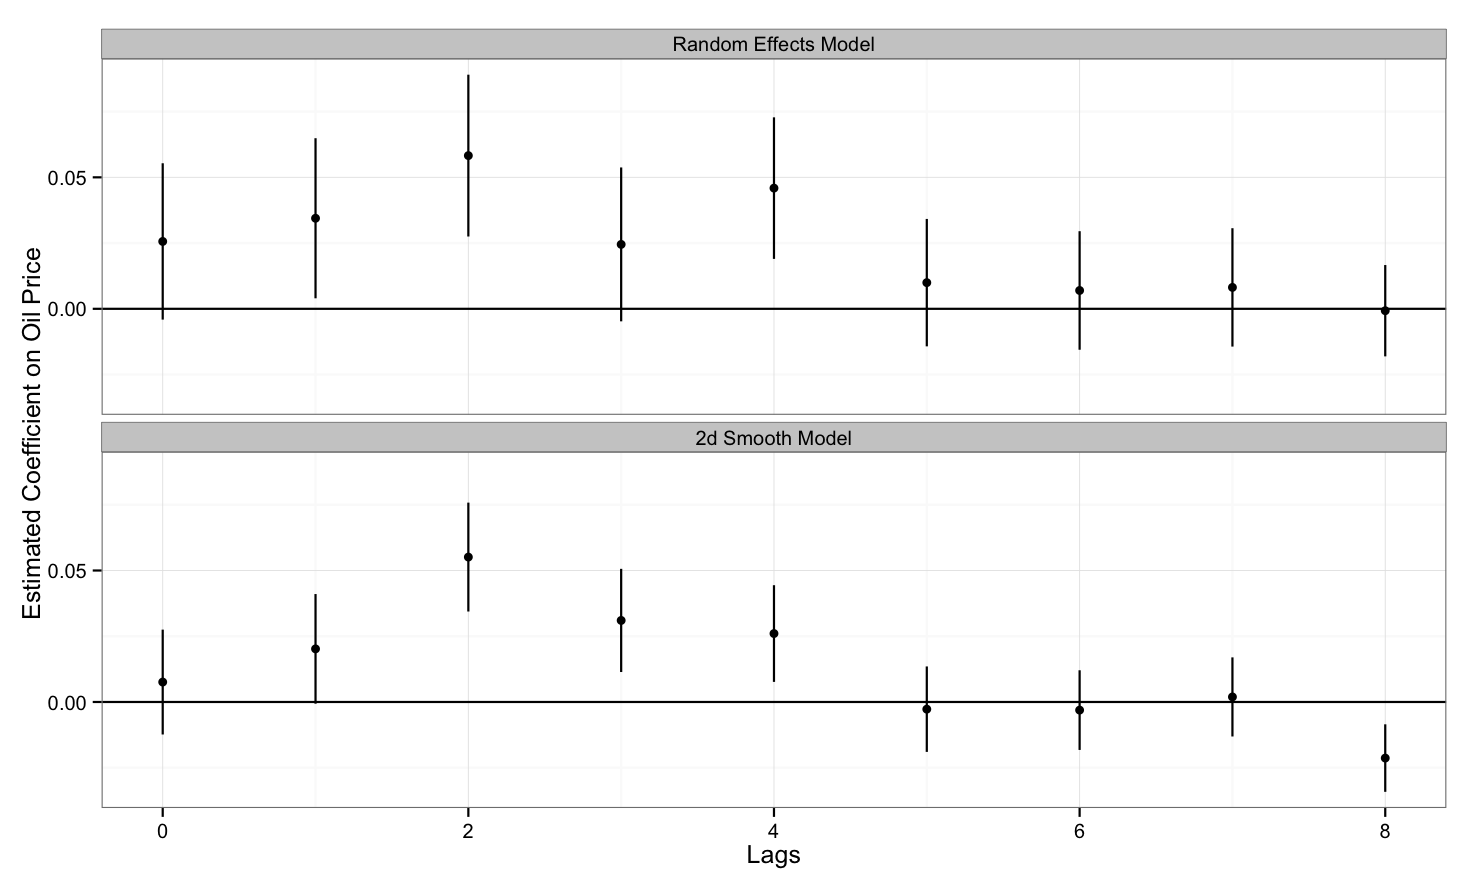
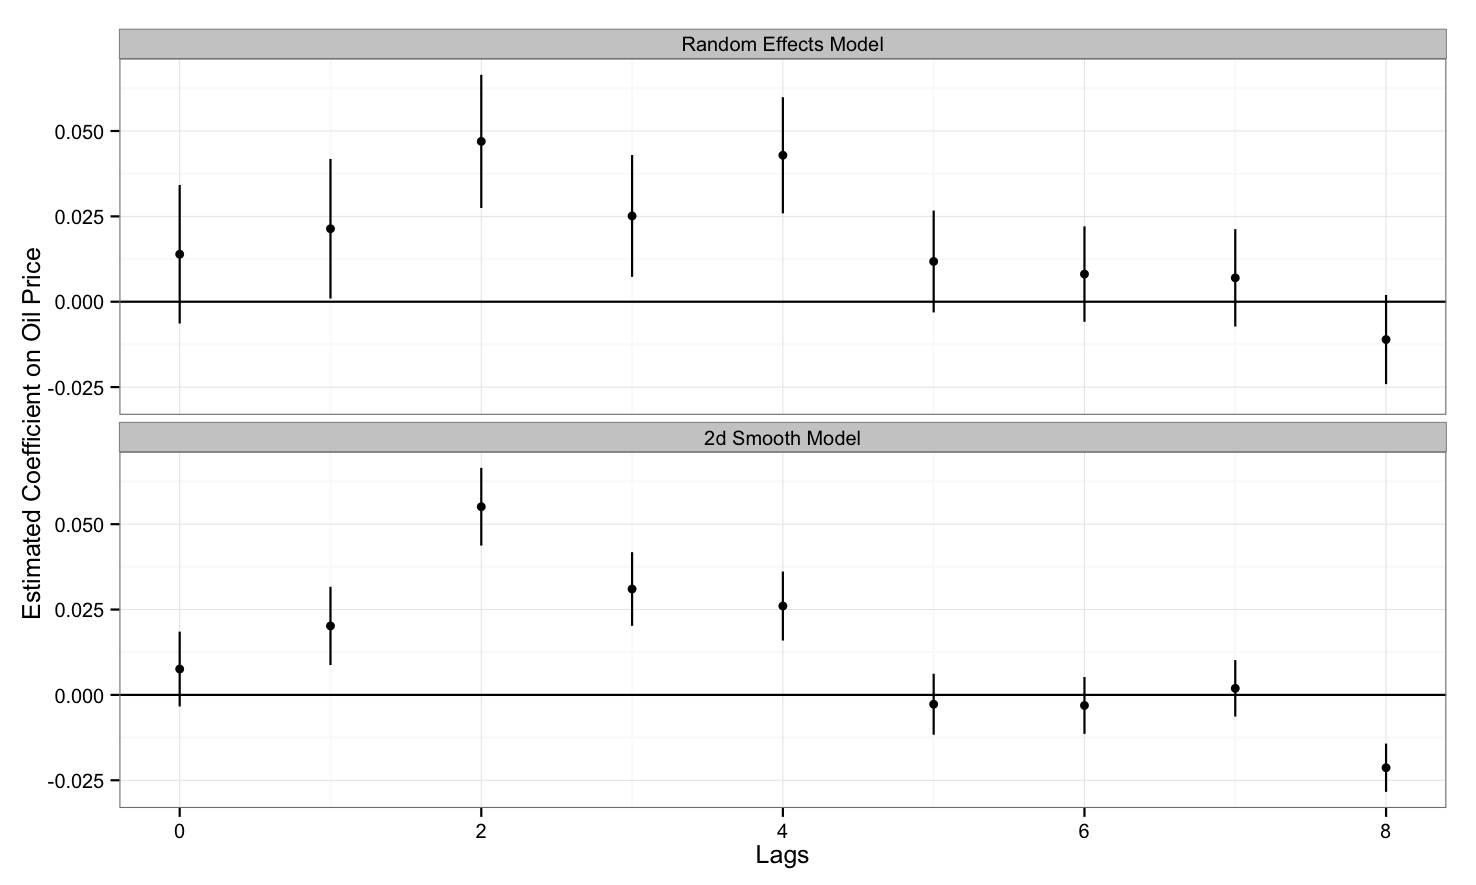
updated analysis

diff --git a/oil_prices_rr.tex b/oil_prices_rr.tex
@@ -191,7 +191,7 @@ One objection to this model may be that a fixed effect controlling for the gener
 
 Another potential issue may be that the smoothed function of production time may not be sufficient in controlling for the variation in production profiles shapes across fields.  In particular, production profiles differ substantially by the size of the field. A solution is to allow the shape to vary by production.  Thus the smoothed can be written as a function of both production time and in place oil: $f(production\_time_{i,t}, in\_place\_oil_{i,t})$.
 
-Estimating a smoothed function of two variables requires a somewhat more involved method.  In particular I use Thin-plate regression spline \citep{wood_thin_2003}. Consider equation \ref{thin_plate_1}. 
+Estimating a smoothed function of two variables requires a somewhat more involved method.  In particular, a Thin-plate regression spline \citep{wood_thin_2003} is used. Consider equation \ref{thin_plate_1}. 
 
 	\begin{equation}
 	y_i = g(x_1, x_2)
@@ -214,7 +214,7 @@ $J_{22}$ represents the penalty function for the smoothness of the function whic
 
 In short, a function of $x_1$ and $x_2$ is found that is minimizing errors in the sense of minimizing Euclidean distance subject to a penalty function of “wiggiliness”.  The actual implementation is somewhat more involved in order to increase the computational efficiency of the estimation.  For further details I again refer to \citet{wood_thin_2003}. 
 
-In the formulation with a two-dimensional smoothed function, it is not possible to estimate a random effects component for computational reasons. 
+Unfortunately, In the formulation with a two-dimensional smoothed function, it is not possible to estimate a random effects component for computational reasons. 
 
 \section{The Effect of Oil Price on Field Production}
 
@@ -228,55 +228,49 @@ Alternatively, a change in price of oil can be seen as a lifting of a production
 \hline
                                              & w/out Rand. Effects & w Rand. Effects & 2-d Smooth \\
 \hline
-(Intercept)                                  & $-28746.236^{***}$ & $-70463.727^{***}$ & $-58741.031^{***}$ \\
-                                             & $(3386.956)$       & $(2942.538)$       & $(2959.556)$       \\
-I(in\_place\_oil\_mill\_sm3/100)             & $0.333^{***}$      & $-0.028$           &                    \\
-                                             & $(0.009)$          & $(0.023)$          &                    \\
-I(cost\_index/10)                            & $-0.005$           & $-0.019^{***}$     & $-0.000$           \\
-                                             & $(0.006)$          & $(0.006)$          & $(0.004)$          \\
-year                                         & $28.793^{***}$     & $70.938^{***}$     & $58.352^{***}$     \\
-                                             & $(3.393)$          & $(2.951)$          & $(2.955)$          \\
-I(year^2)                                    & $-0.007^{***}$     & $-0.018^{***}$     & $-0.015^{***}$     \\
-                                             & $(0.001)$          & $(0.001)$          & $(0.001)$          \\
-I(price/10)                                  & $0.030$            & $0.026$            & $0.008$            \\
-                                             & $(0.015)$          & $(0.015)$          & $(0.010)$          \\
-I(price\_l1/10)                              & $0.050^{**}$       & $0.034^{*}$        & $0.020$            \\
-                                             & $(0.016)$          & $(0.015)$          & $(0.010)$          \\
-I(price\_l2/10)                              & $0.070^{***}$      & $0.058^{***}$      & $0.055^{***}$      \\
-                                             & $(0.017)$          & $(0.015)$          & $(0.010)$          \\
-I(price\_l3)                                 & $0.004^{*}$        &                    &                    \\
-                                             & $(0.002)$          &                    &                    \\
-I(price\_l4)                                 & $0.003$            &                    &                    \\
-                                             & $(0.002)$          &                    &                    \\
-I(price\_l5/10)                              & $-0.008$           & $0.010$            & $-0.003$           \\
-                                             & $(0.013)$          & $(0.012)$          & $(0.008)$          \\
-I(price\_l6/10)                              & $-0.001$           & $0.007$            & $-0.003$           \\
-                                             & $(0.012)$          & $(0.011)$          & $(0.008)$          \\
-I(price\_l7/10)                              & $0.009$            & $0.008$            & $0.002$            \\
-                                             & $(0.012)$          & $(0.011)$          & $(0.008)$          \\
-I(price\_l8/10)                              & $-0.004$           & $-0.001$           & $-0.021^{***}$     \\
-                                             & $(0.010)$          & $(0.009)$          & $(0.006)$          \\
-EDF: s(prod\_year)                           & $6.505^{***}$      &                    &                    \\
-                                             & $(7.326)$          &                    &                    \\
-I(price\_l3/10)                              &                    & $0.024$            & $0.031^{**}$       \\
-                                             &                    & $(0.015)$          & $(0.010)$          \\
-I(price\_l4/10)                              &                    & $0.046^{***}$      & $0.026^{**}$       \\
-                                             &                    & $(0.013)$          & $(0.009)$          \\
-EDF: s(prod\_year,name)                      &                    & $33.287^{***}$     &                    \\
-                                             &                    & $(72.000)$         &                    \\
-EDF: s(prod\_year,in\_place\_oil\_mill\_sm3) &                    &                    & $28.195^{***}$     \\
-                                             &                    &                    & $(28.469)$         \\
+(Intercept)                                  & $0.335^{*}$    & $-4.017^{***}$ & $-574.287^{***}$ \\
+                                             & $(0.146)$      & $(0.183)$      & $(51.125)$       \\
+I(in\_place\_oil\_mill\_sm3/100)             & $0.337^{***}$  & $-0.014$       &                  \\
+                                             & $(0.005)$      & $(0.014)$      &                  \\
+I(cost\_index/10)                            & $-0.018^{***}$ & $-0.030^{***}$ & $-0.014^{***}$   \\
+                                             & $(0.003)$      & $(0.003)$      & $(0.002)$        \\
+I(price/10)                                  & $-0.006$       & $0.014$        & $0.007$          \\
+                                             & $(0.009)$      & $(0.010)$      & $(0.006)$        \\
+I(price\_l1/10)                              & $0.004$        & $0.021^{*}$    & $0.015^{*}$      \\
+                                             & $(0.010)$      & $(0.010)$      & $(0.006)$        \\
+I(price\_l2/10)                              & $0.037^{***}$  & $0.047^{***}$  & $0.048^{***}$    \\
+                                             & $(0.009)$      & $(0.010)$      & $(0.006)$        \\
+I(price\_l3/10)                              & $0.030^{***}$  & $0.025^{**}$   & $0.033^{***}$    \\
+                                             & $(0.009)$      & $(0.009)$      & $(0.006)$        \\
+I(price\_l4/10)                              & $0.003$        & $0.043^{***}$  & $0.028^{***}$    \\
+                                             & $(0.008)$      & $(0.008)$      & $(0.005)$        \\
+I(price\_l5/10)                              & $-0.020^{**}$  & $0.012$        & $-0.001$         \\
+                                             & $(0.007)$      & $(0.007)$      & $(0.005)$        \\
+I(price\_l6/10)                              & $-0.010$       & $0.008$        & $-0.001$         \\
+                                             & $(0.007)$      & $(0.007)$      & $(0.004)$        \\
+I(price\_l7/10)                              & $-0.008$       & $0.007$        & $0.004$          \\
+                                             & $(0.007)$      & $(0.007)$      & $(0.004)$        \\
+I(price\_l8/10)                              & $-0.044^{***}$ & $-0.011$       & $-0.027^{***}$   \\
+                                             & $(0.006)$      & $(0.007)$      & $(0.004)$        \\
+EDF: s(prod\_year)                           & $6.381^{***}$  &                &                  \\
+                                             & $(7.249)$      &                &                  \\
+EDF: s(year)                                 & $2.768^{***}$  & $3.000^{***}$  & $3.000^{***}$    \\
+                                             & $(2.956)$      & $(3.000)$      & $(3.000)$        \\
+EDF: s(prod\_year,name)                      &                & $33.002^{***}$ &                  \\
+                                             &                & $(72.000)$     &                  \\
+EDF: s(prod\_year,in\_place\_oil\_mill\_sm3) &                &                & $27.445^{***}$   \\
+                                             &                &                & $(27.895)$       \\
 \hline
-AIC                                          &                    &                    &                    \\
-BIC                                          &                    &                    &                    \\
-Log Likelihood                               &                    &                    &                    \\
-Deviance                                     & 2391636.349        & 1980765.291        & 914018.219         \\
-Deviance explained                           & 0.843              & 0.870              & 0.940              \\
-Dispersion                                   & 1850.403           & 1564.940           & 718.678            \\
-R$^2$                                        & 0.835              & 0.865              & 0.937              \\
-GCV score                                    & 1879.759           & 1623.406           & 741.957            \\
-Num. obs.                                    & 1088               & 1088               & 1088               \\
-Num. smooth terms                            & 1                  & 1                  & 1                  \\
+AIC                                          &                &                &                  \\
+BIC                                          &                &                &                  \\
+Log Likelihood                               &                &                &                  \\
+Deviance                                     & 23062.678      & 19765.833      & 9057.204         \\
+Deviance explained                           & 0.848          & 0.870          & 0.940            \\
+Dispersion                                   & 5.410          & 5.965          & 2.325            \\
+R$^2$                                        & 0.841          & 0.865          & 0.938            \\
+GCV score                                    & 18.145         & 16.218         & 7.355            \\
+Num. obs.                                    & 1088           & 1088           & 1088             \\
+Num. smooth terms                            & 2              & 2              & 2                \\
 \hline
 \multicolumn{4}{l}{\scriptsize{$^{***}p<0.001$, $^{**}p<0.01$, $^*p<0.05$}}
 \end{tabular}

diff --git a/oil_prices_new_pres.tex b/oil_prices_new_pres.tex
@@ -1,5 +1,5 @@
 % oil_mc_pres.tex
-%Last updated March 12th, 2015
+%Last updated April 1st, 2015
 
 \documentclass{beamer}
 \usepackage{url} 
@@ -8,7 +8,7 @@
 
 \usetheme{default}
 
-\title{Estimating the Effect of Price on Oil Production: Evidence from the Norwegian Continental Shelf}
+\title{Estimating the Effect of Price on Oil Field Production: Evidence from the Norwegian Continental Shelf}
 \author{Johannes Mauritzen}
 \institute % (optional)
 {
@@ -17,7 +17,7 @@
 }
 %\logo{\includegraphics[height=1.5cm]{/Users/johannesmauritzen/Google Drive/Logos/NHH.jpg}}
 
-\date{March 5th, 2015}
+\date{April 2, 2015}
 
 
 \begin{document}
